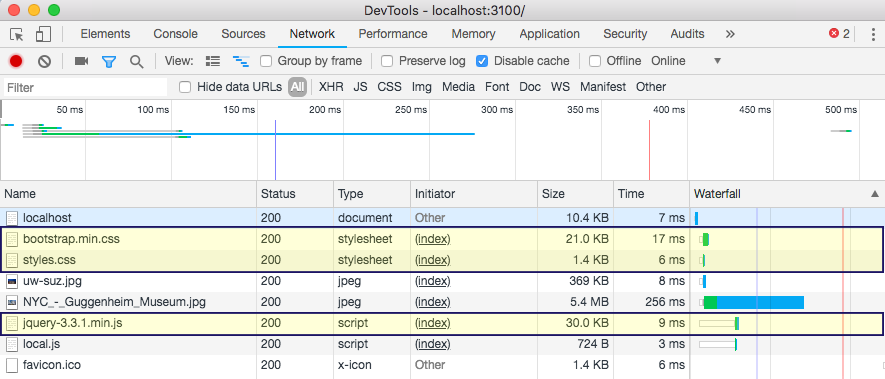
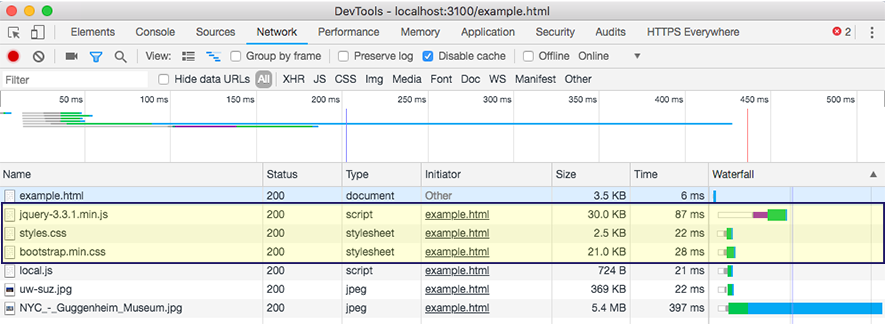
breaking out to separate example file

diff --git a/public/index.html b/public/index.html
@@ -1,0 +1,188 @@
+<!DOCTYPE html>
+<html lang="en">
+<head>
+  <meta charset="utf-8">
+  <meta http-equiv="X-UA-Compatible" content="IE=edge">
+  <meta name="viewport" content="width=device-width, initial-scale=1">
+  <link rel="stylesheet" href="https://stackpath.bootstrapcdn.com/bootstrap/4.1.3/css/bootstrap.min.css">
+  <link rel="stylesheet" type="text/css" href="stylesheets/styles.css" />
+  <title>Browser Security Exercises</title>
+</head>
+<body>
+
+  <div class="banner main">
+    <h1>Browser Security Exercises</h1>
+  </div>
+  <span class="glyphicon glyphicon-fire"></span>
+
+  <div class="instr-wrapper">
+    <p><img src="/img/exclamation.png" />All exercises refer to this <a href="/example.html">example page</a>, which simply loads a variety of assets. Keep it open on another browser tab, as you'll be referring to it throughout the exercises.</p>
+  </div>
+
+  <h2 class="first">Content Security Policy (CSP)<span class="resource"><a href="https://developer.mozilla.org/en-US/docs/Web/HTTP/CSP" target="0">MDN</a></span></h2>
+
+  <p class="instructions">Open up the app.js file in a text editor, and for each CSP challenge below, create a corresponding content security policy by editing the <a href="https://github.com/uwciso/browser-security/blob/master/app.js#L4-L6" target="blank"><code>csp_directives</code> object</a>. Refer to the <a href="https://helmetjs.github.io/docs/csp/" target="0">Helmet.js docs</a> for format/syntax guidance. </p>
+
+  <div class="csp-challenges">
+    <div class="written-instr">
+      <p class="instructions"><b>CSP Challenges</b></p>
+      <span><i>Each challenge is explained visually in accompanying grid</i></span>
+      <ol>
+        <li>Set a default policy which allows <i>only</i> local assets to be loaded (all inline scripts should be blocked).</li>
+        <li>In addition to the local stylesheet and (non-inline) scripts, allow the Bootstrap stylesheet to be loaded from its CDN.</li>
+        <li>In addition to all stylesheets and local (non-inline) scripts, allow <i>all</i> images to be loaded.</li>
+        <li>In addition to all stylesheets and images, allow <i>only</i> scripts from the code.jquery.com CDN.</li>
+        <li>Now, allow scripts from the jQuery CDN as well as any local scripts (but still block all inline scripts).</li>
+        <li>In addition to scripts from the jQuery CDN and local scripts, allow inline script A by using a hash (HINT: Chrome Dev Tools will provide the base64 value of the script's SHA256 hash in its console error message when refusing to run it).</li>
+        <li>Find two ways in which to allow <i>both</i> inline scripts as well as all other assets. Is one method preferable over the other?</li>
+      </ol>
+    </div>
+    <div class="table-instr">
+      <table class="challenges">
+        <thead>
+          <tr>
+            <th></th>
+            <th>Inline Script A</th>
+            <th>Inline Script B</th>
+            <th>Local Script</th>
+            <th>Local Image</th>
+            <th>External Image</th>
+            <th>Local Stylesheet</th>
+            <th>Bootstrap Stylesheet (via CDN)</th>
+            <th>jQuery (via CDN)</th>
+          </tr>
+        </thead>
+        <tbody>
+          <tr>
+            <th>1</th>
+            <td class="no"></td>
+            <td class="no"></td>
+            <td class="yes"></td>
+            <td class="yes"></td>
+            <td class="no"></td>
+            <td class="yes"></td>
+            <td class="no"></td>
+            <td class="no"></td>
+          </tr>
+          <tr>
+            <th>2</th>
+            <td class="no"></td>
+            <td class="no"></td>
+            <td class="yes"></td>
+            <td class="yes"></td>
+            <td class="no"></td>
+            <td class="yes"></td>
+            <td class="yes"></td>
+            <td class="no"></td>
+          </tr>
+          <tr>
+            <th>3</th>
+            <td class="no"></td>
+            <td class="no"></td>
+            <td class="yes"></td>
+            <td class="yes"></td>
+            <td class="yes"></td>
+            <td class="yes"></td>
+            <td class="yes"></td>
+            <td class="no"></td>
+          </tr>
+          <tr>
+            <th>4</th>
+            <td class="no"></td>
+            <td class="no"></td>
+            <td class="no"></td>
+            <td class="yes"></td>
+            <td class="yes"></td>
+            <td class="yes"></td>
+            <td class="yes"></td>
+            <td class="yes"></td>
+          </tr>
+          <tr>
+            <th>5</th>
+            <td class="no"></td>
+            <td class="no"></td>
+            <td class="yes"></td>
+            <td class="yes"></td>
+            <td class="yes"></td>
+            <td class="yes"></td>
+            <td class="yes"></td>
+            <td class="yes"></td>
+          </tr>
+          <tr>
+            <th>6</th>
+            <td class="yes"></td>
+            <td class="no"></td>
+            <td class="yes"></td>
+            <td class="yes"></td>
+            <td class="yes"></td>
+            <td class="yes"></td>
+            <td class="yes"></td>
+            <td class="yes"></td>
+          </tr>
+          <tr>
+            <th>7</th>
+            <td class="yes"></td>
+            <td class="yes"></td>
+            <td class="yes"></td>
+            <td class="yes"></td>
+            <td class="yes"></td>
+            <td class="yes"></td>
+            <td class="yes"></td>
+            <td class="yes"></td>
+          </tr>
+        </tbody>
+      </table>
+    </div>
+  </div>
+  <p class="instructions">To see the results of each CSP modification:</p>
+  <ul>
+    <li>Reload the <a href="/example.html">example page</a>, and observe the "Page Assets" section to verify what was loaded/executed (with the exception of the local stylesheet and external CDN resources).</li>
+    <li>Verify the local stylesheet and external CDN resources (jQuery and the Bootstrap stylesheet) on the example page by opening Dev Tools, reloading the page, and observing requests on the <a href="/network-tab.html">Network tab</a>.
+    </li>
+  </ul>
+  <p>To see solutions to each CSP challenge, view the <a href="https://github.com/uwciso/browser-security/blob/master/app.js" target="0">app.js</a> file on its corresponding branch.</p>
+
+  <h2>X-XSS-Protection Header<span class="resource"><a href="https://developer.mozilla.org/en-US/docs/Web/HTTP/Headers/X-XSS-Protection" target="0">MDN</a></span></h2>
+  <ol>
+    <li>
+      <p>As an added layer of protection for older browsers not supporting CSP, make sure the <code>X-XSS-Protection</code> header is set for all responses. This can be done by adding a single line to the app.js file using Helmet.js's <a href="https://helmetjs.github.io/docs/xss-filter/" target="0">XSS Filter</a> module.</p>
+      <p>Reload the example page and verify this header is indeed set.</p>
+    </li>
+  </ol>
+  <h2>Subresource Integrity <span class="resource"><a href="https://developer.mozilla.org/en-US/docs/Web/Security/Subresource_Integrity" target="0">MDN</a></span></h2>
+  <p>Right now, this page pulls in jQuery from a CDN, and in doing so, is trusting that the CDN will serve an uncorrupted file. If the file was modified, the browser would have no way to detect that.</p>
+  <ol>
+    <li>
+      <p>Add another layer of security for this file by adding an <code>integrity</code> attribute on the <a href="https://github.com/uwciso/browser-security/blob/master/index.html#L194" target="blank">script tag</a> of this file, index.html. For the attribute's value, you can easily generate a hash of the (jQuery) file using this <a href="https://www.srihash.org/" target="0">SRI Hash Generator</a>. Don't forget to include a <code>crossorigin="anonymous"</code> attribute as well (see <a href="https://developer.mozilla.org/en-US/docs/Web/HTML/CORS_settings_attributes" target="0">MDN</a> for more information on this attribute).</p>
+      <p>Now, reload the example page and verify that the resource loads as expected. Then, modify the value of the <code>integrity</code> attribute so the browser's calculated value will not match. Has the resource been blocked?</p>
+      <p>Note: verifying this can be tricky, since the Network tab will show the file as having been loaded (which is true, since the file had to be downloaded in order for the browser to check its hash). You can verify by attempting to execute a jQuery selection in the console window, or, in Chrome Dev Tools, using the Source tab to see if that file is available.</p>
+    </li>
+    <li>
+      <p>Now, with the integrity attribute correctly applied, remove just the <code>crossorigin="anonymous"</code> attribute, and reload the example page. Does the script resource load? Why or why not?</p>
+    </li>
+  </ol>
+  <h2>Explicit MIME Types and Disabling MIME Sniffing<span class="resource"><a href="https://developer.mozilla.org/en-US/docs/Web/HTTP/Basics_of_HTTP/MIME_types" target="0">MDN</a></span></h2>
+  <ol>
+    <li>
+      <p>For each of the local page resources, check the response to verify a <code>ContentType</code> header was sent (use the Dev Tools Network tab). Also, verify whether or not browser MIME sniffing has been explicitly disabled by the server (to prevent the browser potentially making its own guess at the resource's content type and ignoring information sent by the server). If it hasn't, fix this using Helmet.js's <a href="https://helmetjs.github.io/docs/dont-sniff-mimetype/" target="0">noSniff module</a> (you'll need to add a line in the app.js file).</p>
+      <p>Reload the example page, and verify the presence of the appropriate response header (<code>X-Content-Type-Options: nosniff</code>).</p>
+    </li>
+  </ol>
+  <h2>Safer Cookies<span class="resource"><a href="https://developer.mozilla.org/en-US/docs/Web/HTTP/Headers/Set-Cookie" target="0">MDN</a></span></h2>
+  <p>For these exercises, you'll need to edit the <a href="https://expressjs.com/en/4x/api.html#res.cookie" target="0"><code>res.cookie</code></a> method in the app.js file.</p>
+  <ol>
+    <li>
+      <p>Note that this app sets a 'chipsahoy' cookie on the initial response. Use <code>document.cookie</code> in the Dev Tools console to see this cookie and its value. Now, add the <code>httpOnly</code> directive to this cookie to prevent it from being accessed directly with JS methods.</p>
+      <p>Reload the example page and try accessing the cookie again through the console with <code>document.cookie</code>.</p>
+    </li>
+    <li>
+      <p>Check that this cookie is sent on subsequent requests to local (same-origin) resources (such as this page's stylesheet or image) by inspecting the <code>Cookie</code> request header. Now, disallow this cookie from being sent on requests <i>not</i> over https by using the <code>secure</code> directive.</p>
+      <p>Reload the example page, then check those same requests to verify this cookie was not sent (since this app is making the requests over http rather than https).</p>
+    </li>
+    <li>
+      <p>Finally, ensure that this cookie won't be sent along with any cross-site (third party) requests by adding the <code>sameSite</code> directive. Also, give this cookie an explicit expiration date (HINT: an easy way to do that is to use <code>new Date(Date.now + 1000)</code> as a value).</p>
+      <p>Reload the example page and check that the cookie reflects these updates.</p>
+    </li>
+  </ol>
+</body>
+</html>

diff --git a/public/example.html b/public/example.html
@@ -1,0 +1,82 @@
+<!DOCTYPE html>
+<html lang="en">
+<head>
+  <meta charset="utf-8">
+  <meta http-equiv="X-UA-Compatible" content="IE=edge">
+  <meta name="viewport" content="width=device-width, initial-scale=1">
+  <link rel="stylesheet" type="text/css" href="stylesheets/styles.css" />
+  <link rel="stylesheet" href="https://stackpath.bootstrapcdn.com/bootstrap/4.1.3/css/bootstrap.min.css">
+  <title>Browser Security Exercises Example Page</title>
+</head>
+<body>
+
+  <div class="banner">
+    <h1>Browser Security Exercises: Example Page</h1>
+  </div>
+
+  <div class="card">
+    <div class="card-header">
+      Page Assets
+    </div>
+    <div class="card-body">
+      <ul>
+        <li>
+          <p class="item">Inline script A</p>
+          <span id='inline-msg' class='blocked'>blocked</span>
+          <script type="text/javascript">
+            // replaces span to reflect script having executed
+            var new_span = document.createElement('span');
+            new_span.setAttribute('class', 'allowed');
+            var new_content = document.createTextNode('allowed');
+            new_span.appendChild(new_content);
+            var current_span = document.getElementById('inline-msg');
+            var parent_li = current_span.parentNode;
+            parent_li.replaceChild(new_span, current_span);
+          </script>
+        </li>
+
+        <li>
+          <p class="item">Inline script B</p>
+          <span id='inline2-msg' class='blocked'>blocked</span>
+          <script type="text/javascript">
+            // replaces span to reflect script having executed
+            var new_span = document.createElement('span');
+            new_span.setAttribute('class', 'allowed');
+            var new_content = document.createTextNode('allowed');
+            new_span.appendChild(new_content);
+            var current_span = document.getElementById('inline2-msg');
+            var parent_li = current_span.parentNode;
+            parent_li.replaceChild(new_span, current_span);
+          </script>
+        </li>
+        <li>
+          <p class="item">Local script</p>
+          <span id='external-msg' class='blocked'>blocked</span>
+          <script type="text/javascript" src="js/local.js"></script>
+        </li>
+        <li class='images'>
+          <p class='item'>Images</p>
+          <div class='all-images'>
+            <div class="">
+              <label for='local'>Local</label>
+              <img id='local' src='img/uw-suz.jpg'>
+            </div>
+            <div class="">
+              <label for='wikimedia'>External</label>
+              <img id='wikimedia' src="https://upload.wikimedia.org/wikipedia/commons/6/6b/NYC_-_Guggenheim_Museum.jpg" >
+            </div>
+          </div>
+        </li>
+        <li><p class="item">Local stylesheet</p><span class="subtext"> (styles.css)</span></li>
+        <li><p class="item">Bootstrap stylesheet, via external CDN</p><span class="subtext"> (bootstrap.min.css)</span></li>
+
+        <li>
+          <p class="item">jQuery, via external CDN</p><span class="subtext"> (jquery-3.3.1.min.js)</span>
+          <script src="https://code.jquery.com/jquery-3.3.1.min.js"></script>
+        </li>
+      </ul>
+    </div>
+  </div>
+  <p class="backlink"><a href="/">< Back to exercises</a></p>
+</body>
+</html>

diff --git a/public/stylesheets/styles.css b/public/stylesheets/styles.css
@@ -6,11 +6,35 @@
   margin-bottom: 15px;
   border-radius: 4px;
 }
+.banner.main {
+  margin-bottom: 0;
+}
 body {
   padding: 15px 30px;
 }
 .backlink {
   margin-top: 15px;
+}
+img#network {
+  border: 1px solid #c7c7c7;
+  border-radius: 4px;
+}
+.instr-wrapper {
+  background-color: #e2e2e2;
+  border-radius: 4px;
+  padding: 10px 15px;
+  margin-left: -12px;
+  margin-top: 10px;
+  margin-bottom: 15px;
+}
+.instr-wrapper p {
+  margin: 0;
+}
+.instr-wrapper img {
+  height: 20px;
+  margin-right: 10px;
+  position: relative;
+  bottom: 3px;
 }
 .csp-challenges {
   display: flex;
@@ -73,9 +97,6 @@ h2:not(.first) {
   font-size: 15px;
   position: relative;
   bottom: -11px;
-}
-ul {
-  margin-bottom: 0;
 }
 p.instructions {
   margin-bottom: 2px;

diff --git a/app.js b/app.js
@@ -18,13 +18,13 @@ app.use(helmet.contentSecurityPolicy({
 
 app.use(express.static('public'));
 
-app.get('/', (req, res) => {
+app.get('/example.html', (req, res) => {
   res.cookie('chipsahoy', 'delicious', {
     /*****************************************************************************
      Cookie directives go here
     *****************************************************************************/
   });
-  res.sendFile(path.join(__dirname + '/index.html'));
+  res.sendFile(path.join(__dirname + '/example.html'));
 });
 
 app.listen(3100, () => console.log('App is running at localhost:3100'));

diff --git a/public/network-tab.html b/public/network-tab.html
@@ -10,7 +10,7 @@
 </head>
 <body>
   <p>Local stylesheet (styles.css) and external CDN resources (jquery-3.3.1.min.js and bootstrap.min.css) on the Dev Tools Network tab</p>
-  <img src="img/network-tab.png" alt="dev tools network tab showing cdn resources" />
+  <img src="img/network-tab.png" id="network" alt="dev tools network tab showing cdn resources" />
   <p class="backlink"><a href="/">< Back to exercises</a></p>
 </body>
 </html>
